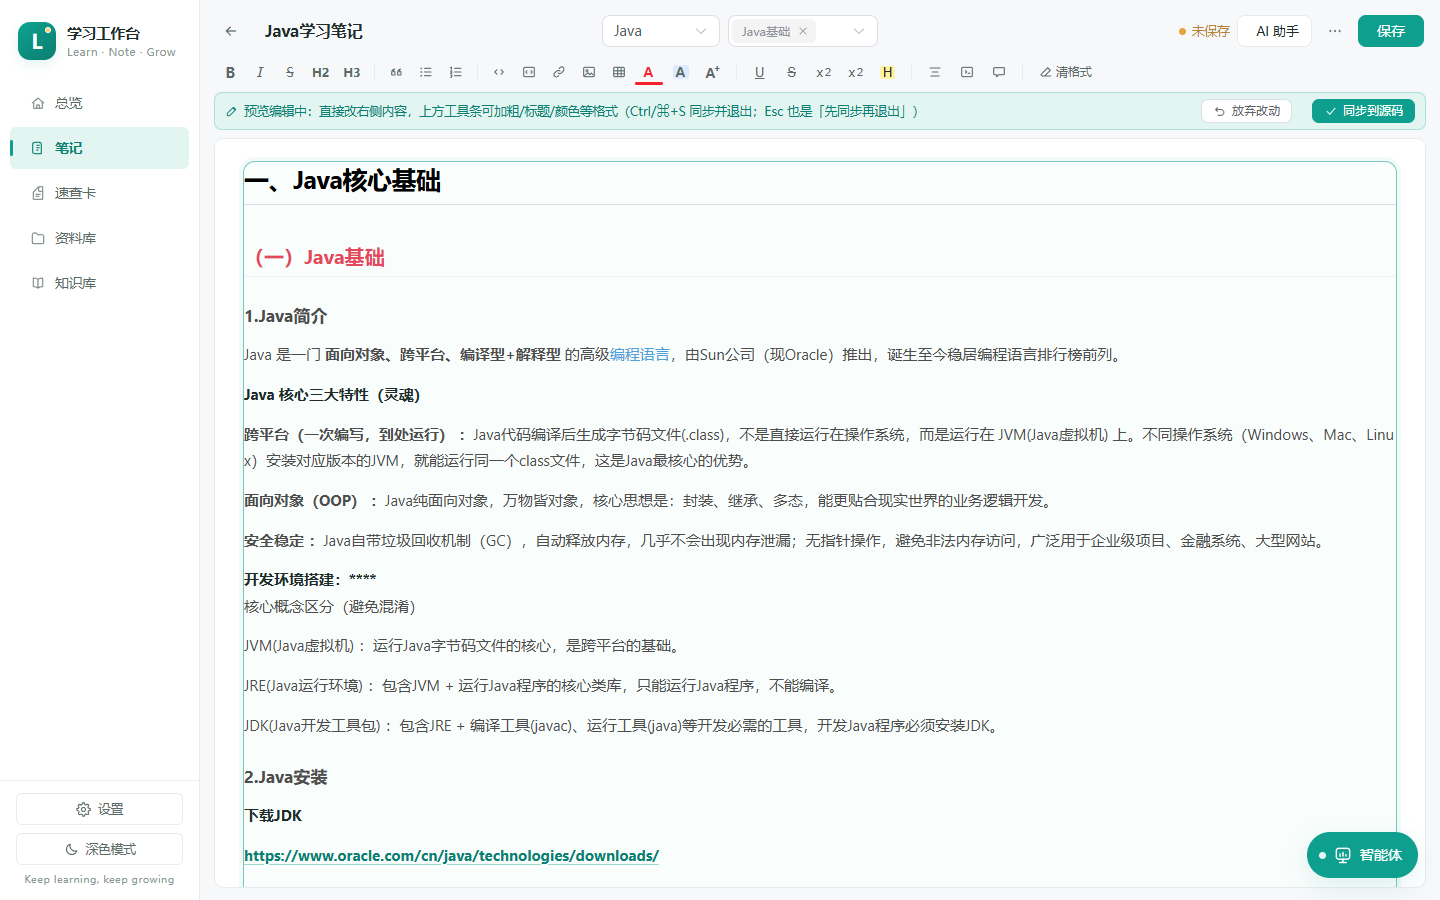
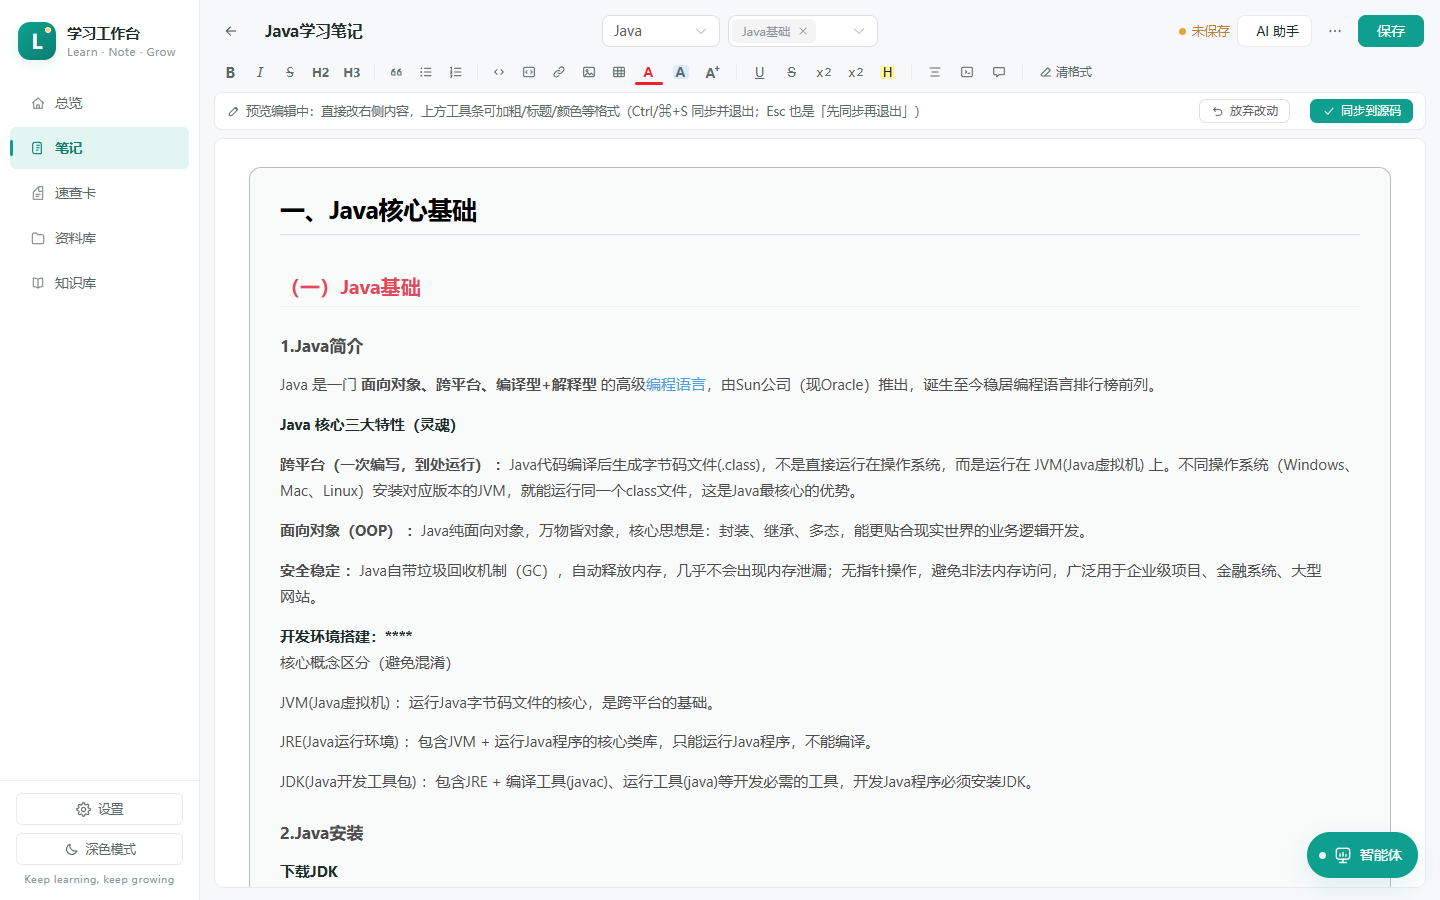
style: 预览编辑画布去品牌色 + 补足上下左右留白
- 编辑框内边距 24px 30px 32px：内容距框边不再是零，有呼吸空间（padding 纯视觉，不影响 innerHTML 反推）
- 背景/边框全部中性化：brand 混色 → 中性灰（浅色 rgb(250,250,250)，深色随主题基调），无绿色
- hover/focus 改中性别框深浅分级，去掉常驻品牌外发光
- 预览编辑操作条同步中性化（brand-soft 绿底 → 卡片底 + 中性边框，tip 文字 text-2）
- pv-inner 外层留白 22/28/48 → 28/34/56，框与容器边缘同样不贴边

验证：previewformat 9 / editui 25 全绿；深浅两套计算样式核对（背景三通道相等确认无绿色）；dist 已同步

diff --git a/frontend/src/views/NoteEdit.vue b/frontend/src/views/NoteEdit.vue
@@ -1362,7 +1362,7 @@ html.dark .pane-editor :deep(.md-editor) {
 /* 预览编辑：编辑优先，放开阅读限宽占满预览栏，大屏不再两侧大片留白 */
 .editor-wrap.is-preview-editing .pv-inner {
   max-width: 100%;
-  padding: 22px 28px 48px;
+  padding: 28px 34px 56px;
 }
 .pane-preview :deep(.md-editor-preview.md-editor-preview) {
   background: transparent;
@@ -1382,24 +1382,25 @@ html.dark .pane-editor :deep(.md-editor) {
   margin-top: 0;
 }
 
-/* 预览区可编辑：精致「编辑画布」——柔边 + 极淡品牌底 + 外发光，替代生硬虚线。
+/* 预览区可编辑：中性「编辑画布」——无品牌色，靠留白与圆角区分；
+   内边距让内容与边框有呼吸（padding 是纯视觉，不影响 innerHTML 反推）。
    注意 .md-editor-preview.md-editor-preview 已声明 background:transparent（更高特异性），
    故这里双写 .lh-preview-editing 类名压回去。 */
 .pane-preview :deep(.md-editor-preview.lh-preview-editing.lh-preview-editing) {
   outline: none;
-  border: 1px solid color-mix(in srgb, var(--app-brand) 30%, var(--app-border));
-  background: color-mix(in srgb, var(--app-brand) 2.5%, var(--app-card));
+  border: 1px solid var(--app-border);
+  background: color-mix(in srgb, var(--app-text-1) 2.5%, var(--app-card));
   border-radius: 12px;
-  box-shadow: 0 0 0 4px color-mix(in srgb, var(--app-brand) 6%, transparent);
+  padding: 24px 30px 32px;
   cursor: text;
   transition: border-color var(--dur-fast) ease, box-shadow var(--dur-fast) ease;
 }
 .pane-preview :deep(.md-editor-preview.lh-preview-editing.lh-preview-editing:hover) {
-  border-color: color-mix(in srgb, var(--app-brand) 50%, var(--app-border));
+  border-color: color-mix(in srgb, var(--app-text-1) 24%, var(--app-border));
 }
 .pane-preview :deep(.md-editor-preview.lh-preview-editing.lh-preview-editing:focus) {
-  border-color: var(--app-brand);
-  box-shadow: 0 0 0 4px color-mix(in srgb, var(--app-brand) 14%, transparent);
+  border-color: color-mix(in srgb, var(--app-text-1) 42%, var(--app-border));
+  box-shadow: var(--shadow-sm);
 }
 
 /* ================= 大纲栏 ================= */
@@ -1500,16 +1501,16 @@ html.dark .ol-item.active {
   align-items: center;
   gap: 8px;
   flex-wrap: wrap;
-  padding: 6px 10px;
-  background: var(--app-brand-soft);
-  border: 1px solid color-mix(in srgb, var(--app-brand) 25%, transparent);
+  padding: 6px 12px;
+  background: var(--app-card);
+  border: 1px solid var(--app-border);
   border-radius: 8px;
   margin-bottom: 8px;
 }
 .pe-tip {
   flex: 1 1 260px;
   font-size: 12.5px;
-  color: var(--app-brand-deep);
+  color: var(--app-text-2);
 }
 
 .read-top {
